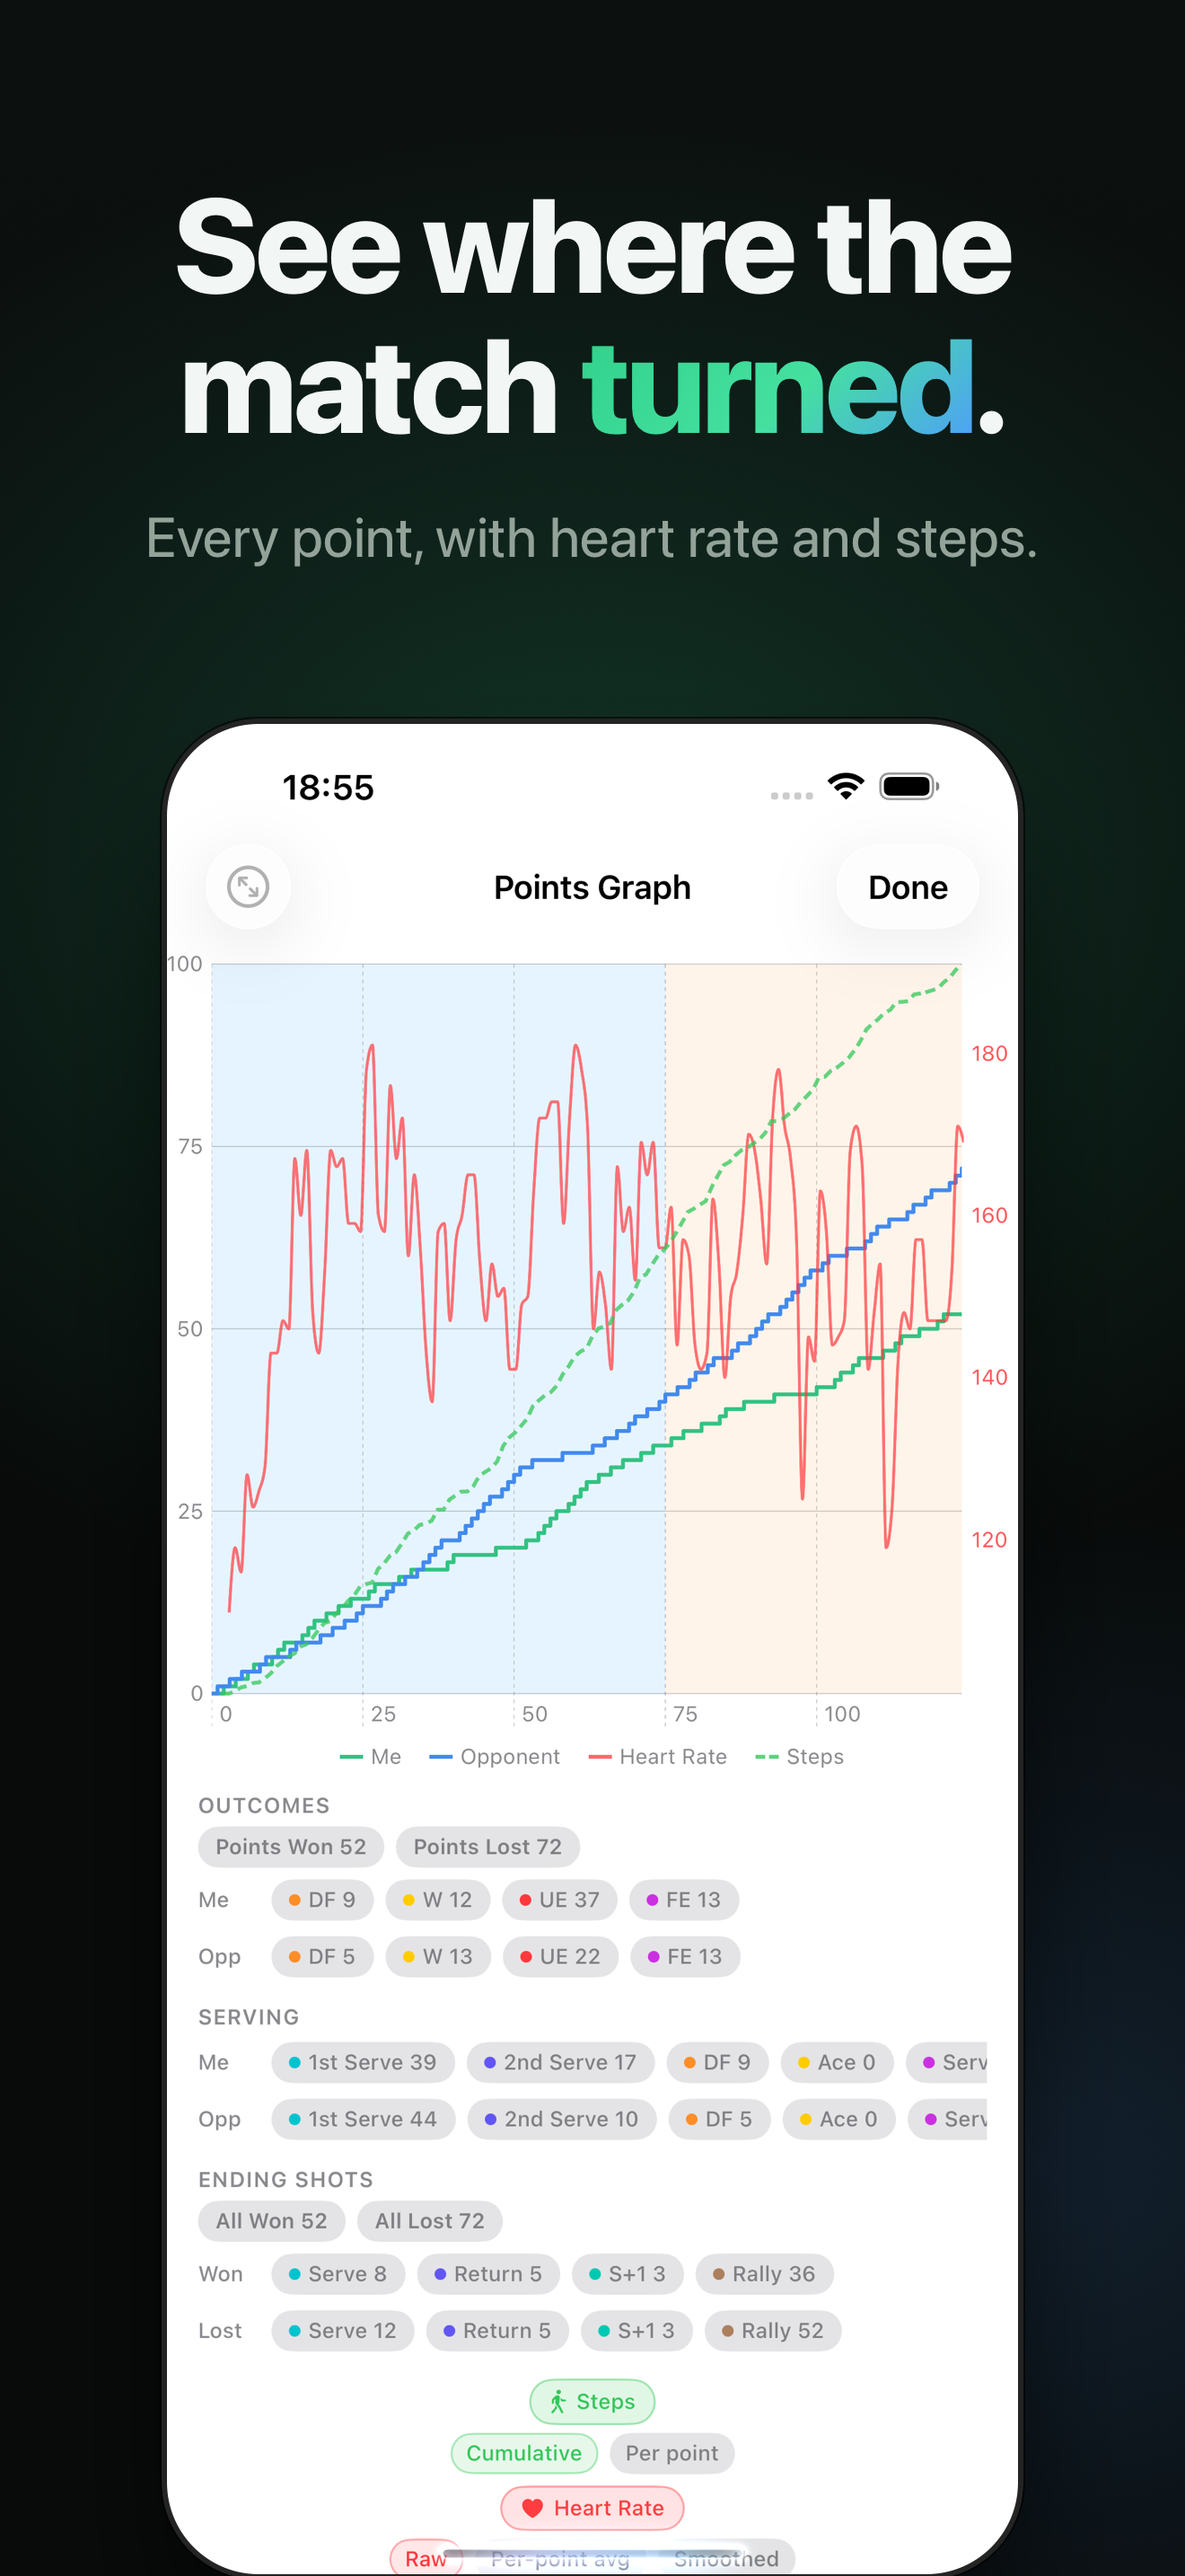
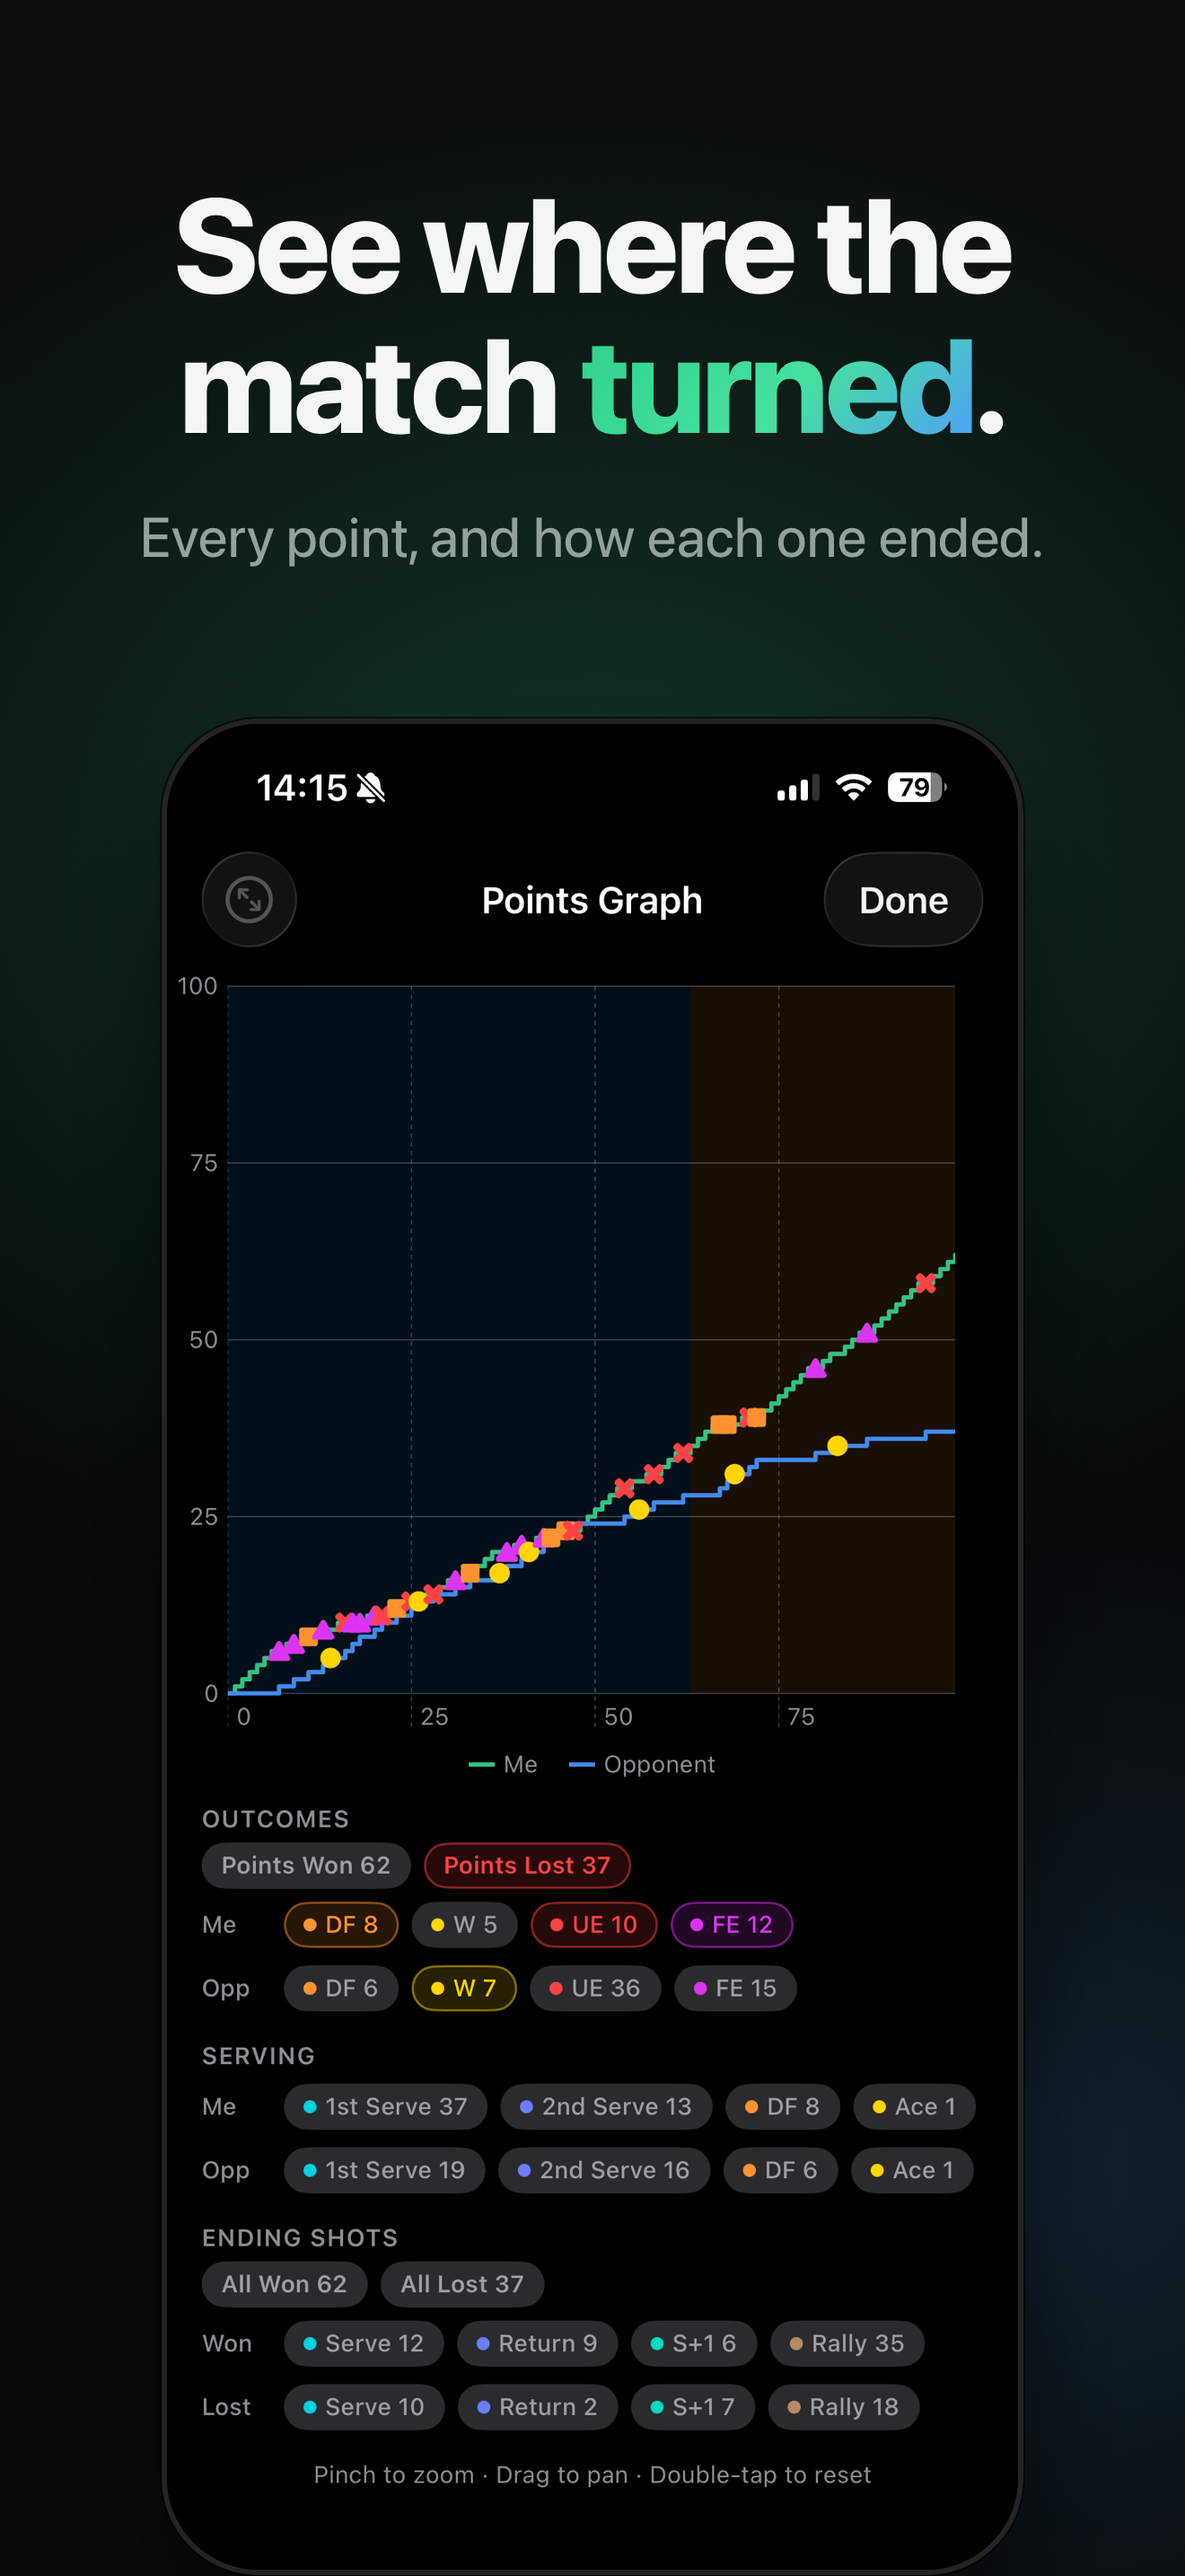
docs: switch ad 2 to the dark Points Graph
The dark capture sits with the backdrop instead of punching a white slab
through it, and its coloured outcome markers on the line — plus the outlined
DF / W / UE / FE pills — read as a serious analytics product where the light
version read as a screenshot.

The subhead changes with it. That capture has the Heart Rate and Steps overlays
switched off, so "Every point, with heart rate and steps" would have been a
claim the image no longer backs; it becomes "Every point, and how each one
ended", which is what the outcome markers and ENDING SHOTS pills actually show.
The HTML comment records how to restore the stronger line if the graph is ever
reshot with the overlays on.

The dark capture lives in marketing/sources/ rather than replacing
iphone-6.9/02-points-momentum.png, which stays the light 1320x2868 image
uploaded as a raw screenshot in its own right.

Ad 1 stays light, deliberately. Both variants were built and compared at
thumbnail size: that frame only works if a viewer registers two devices, and
the bright phone behind the dark Watch is what makes that read at 300px. Dark
merges them even with the Watch rim and glow pushed up. Full-size review favours
dark and would mislead you here — the README now says so.

diff --git a/docs/app-store-screenshots/marketing/ad-2-analysis.html b/docs/app-store-screenshots/marketing/ad-2-analysis.html
@@ -3,15 +3,24 @@
      graph is the product's most distinctive image and it needs the pixels.
      Positioned so the chart itself sits in the upper half of the device and the
      filter pills bleed off the bottom edge — a shopper should see the graph,
-     not a shrunk-to-fit whole screen. -->
+     not a shrunk-to-fit whole screen.
+
+     Uses a DARK capture (sources/points-graph-dark.png): it sits with the
+     backdrop instead of punching a white slab through it, and the coloured
+     outcome markers on the line read far better than the light version's.
+
+     The subhead names outcomes rather than heart rate and steps because this
+     capture has those overlays switched off. If it is ever reshot with Heart
+     Rate and Steps enabled, restore "Every point, with heart rate and steps." —
+     the stronger claim, and true again at that point. -->
 <html lang="en">
 <head>
 <meta charset="utf-8">
 <title>DeuceMate — Match analysis</title>
 <link rel="stylesheet" href="ad.css">
 <style>
-  /* Height = width * 2.1727; bottom lands past 1434 so the filter pills
-     crop off the edge rather than shrinking the graph to fit. */
+  /* Height = width * 2.1679 (1179x2556 source); bottom lands past 1434 so the
+     filter pills crop off the edge rather than shrinking the graph to fit. */
   .phone-main {
     width: 480px;                /* -> ~1043px tall, bleeds just past 1434 */
     top: 400px;
@@ -24,7 +33,7 @@
 
   <div class="copy">
     <h1 class="headline">See where the match <span class="accent">turned</span>.</h1>
-    <p class="subhead">Every point, with heart rate and steps.</p>
+    <p class="subhead">Every point, and how each one ended.</p>
   </div>
 
   <div class="stage">

diff --git a/docs/app-store-screenshots/marketing/README.md b/docs/app-store-screenshots/marketing/README.md
@@ -59,8 +59,13 @@ Output is byte-for-byte identical across runs.
 |---|---|
 | `src-watch-live.png` | `../watch-45mm/01-watch-live-scoreboard.png` |
 | `src-iphone-archive.png` | `../iphone-6.9/05-match-archive.png` |
-| `src-iphone-graph.png` | `../iphone-6.9/02-points-momentum.png` |
+| `src-iphone-graph.png` | `sources/points-graph-dark.png` |
 | `src-iphone-aicoach.png` | `../../screenshots/09-ai-coach-launcher.png` |
+
+`sources/` holds captures that exist **only** for these frames. The dark Points
+Graph lives there rather than replacing `../iphone-6.9/02-points-momentum.png`,
+which stays the light 1320 x 2868 capture uploaded as a raw screenshot in its
+own right.
 
 Replacing a source screenshot means re-running the build; the frames are not
 edited by hand and nothing here is retouched.
@@ -77,10 +82,22 @@ so before uploading:
   score cannot be read there, the frame has failed at its real job — scale the
   type or the devices up and re-run.
 
-## A known judgement call
+## Light and dark, and why they are mixed
 
-Frames 01 and 02 embed light-mode screenshots; 03 embeds a dark-mode one. On the
-dark backdrop this reads as deliberate contrast rather than an inconsistency,
-and the AI Coach screen is genuinely more striking dark. If it ever looks wrong
-in the live gallery, recapture `09-ai-coach-launcher.png` in light mode at
-1320 x 2868 and re-run — no layout change needed.
+Frames 02 and 03 embed dark-mode screenshots; **01 is deliberately light**, and
+that is not an oversight.
+
+Both were built and compared at thumbnail size, which is where most people see
+a store screenshot. Ad 01's entire job is to say *Apple Watch scorer, iPhone
+companion* — and it only does that if a viewer registers **two** devices. The
+bright phone behind the dark Watch is what makes that read at 300px wide. In the
+dark version the two merge into one slab, even with the Watch's rim and glow
+pushed up to compensate. At full size dark looks more premium; at thumbnail size
+it loses the point of the frame, so light wins on the size that matters.
+
+Ads 02 and 03 have no such job — a single device, no separation to preserve — so
+they take the dark captures, which sit with the backdrop instead of punching a
+white slab through it.
+
+If ad 01 is ever revisited, compare at thumbnail size before deciding; full-size
+review will mislead you here.
